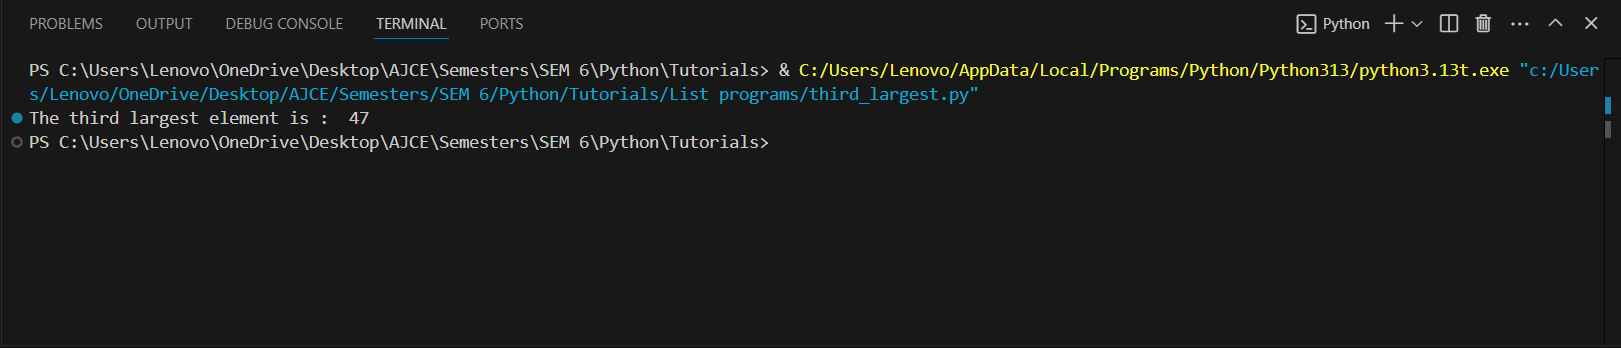
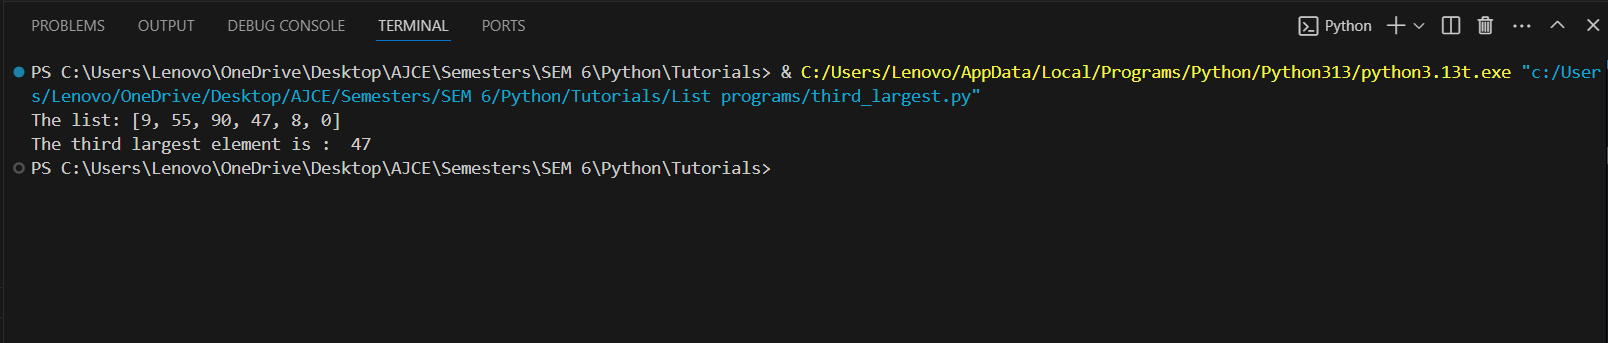
list_programs

diff --git a/List programs/Q3.py b/List programs/Q3.py
@@ -1,0 +1,6 @@
+master_list = [10, 25, 7, 18, 30, 5, 12]
+print("The List:",master_list)
+limit= int(input("Enter a limit number: "))
+filtered_list = [num for num in master_list if num < limit]
+
+print("Numbers less than", limit, ":", filtered_list)

diff --git a/List programs/third_largest.py b/List programs/third_largest.py
@@ -1,4 +1,4 @@
 elements= [9,55,90,47,8,0]
-
+print("The list:",elements)
 elements.sort(reverse=True)  
 print("The third largest element is : ",elements[2])

diff --git a/List programs/largest_no.py b/List programs/largest_no.py
@@ -1,5 +1,5 @@
 num = [3, 1, 7, 9, 2, 8]
-
+print("The list:",num)
 largest = max(num)
 smallest = min(num)
 
